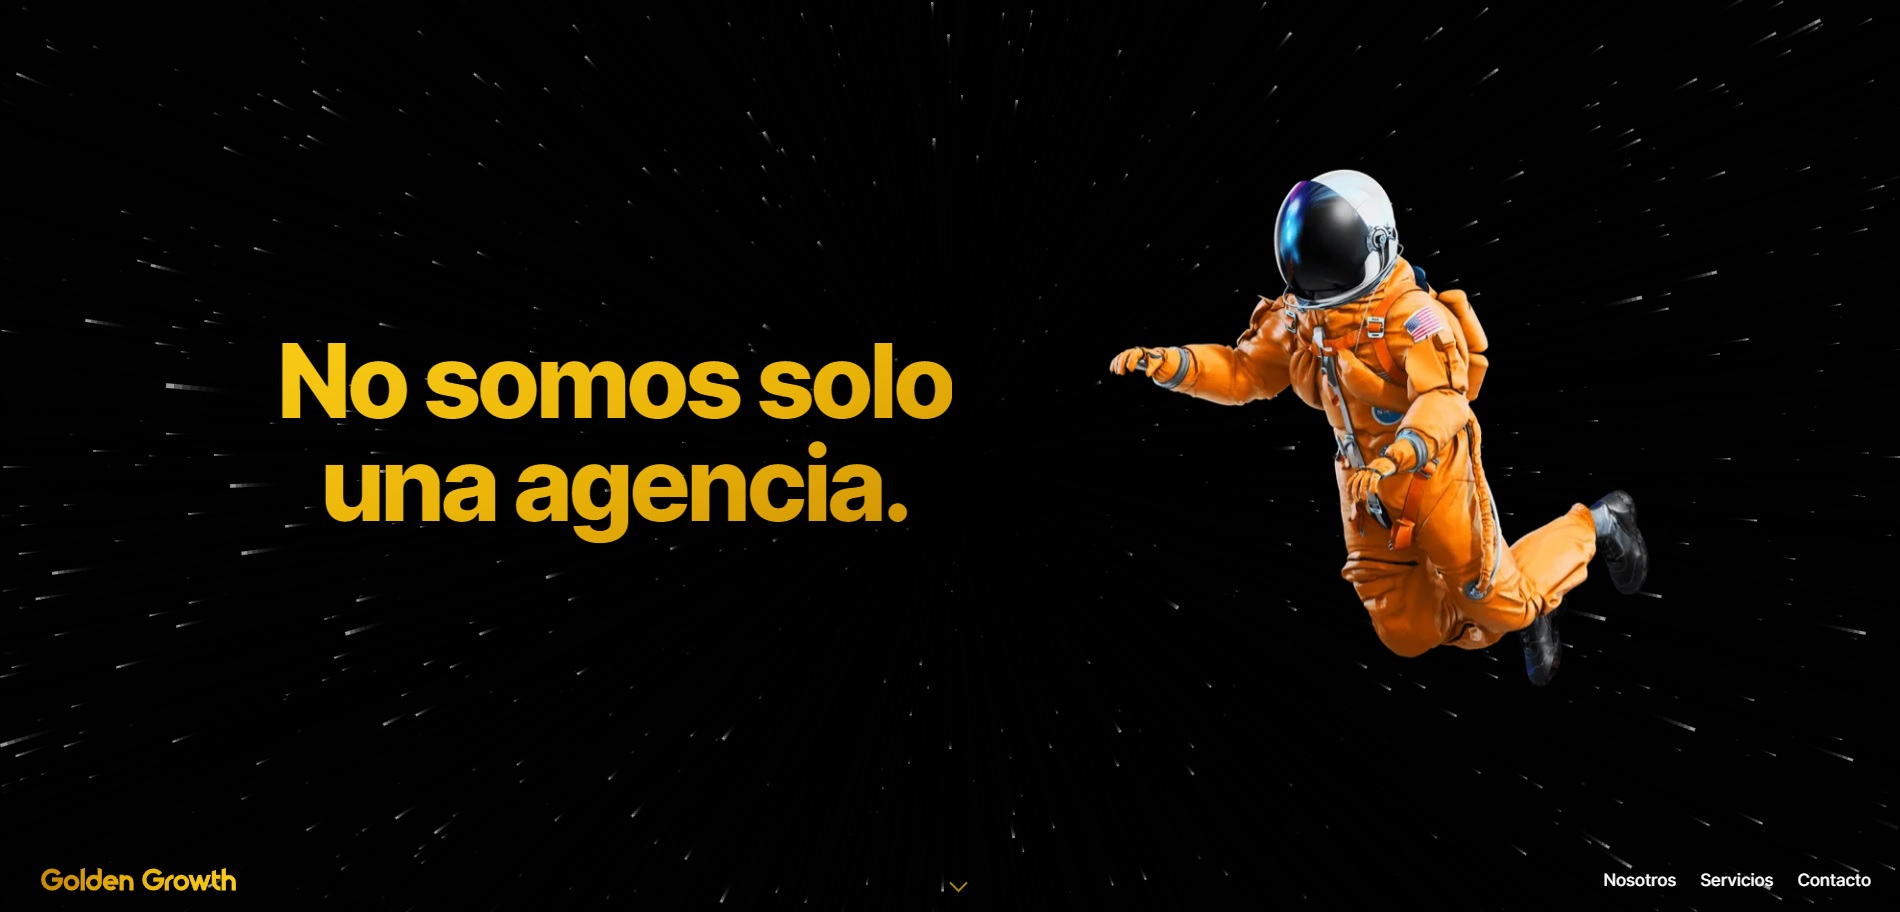
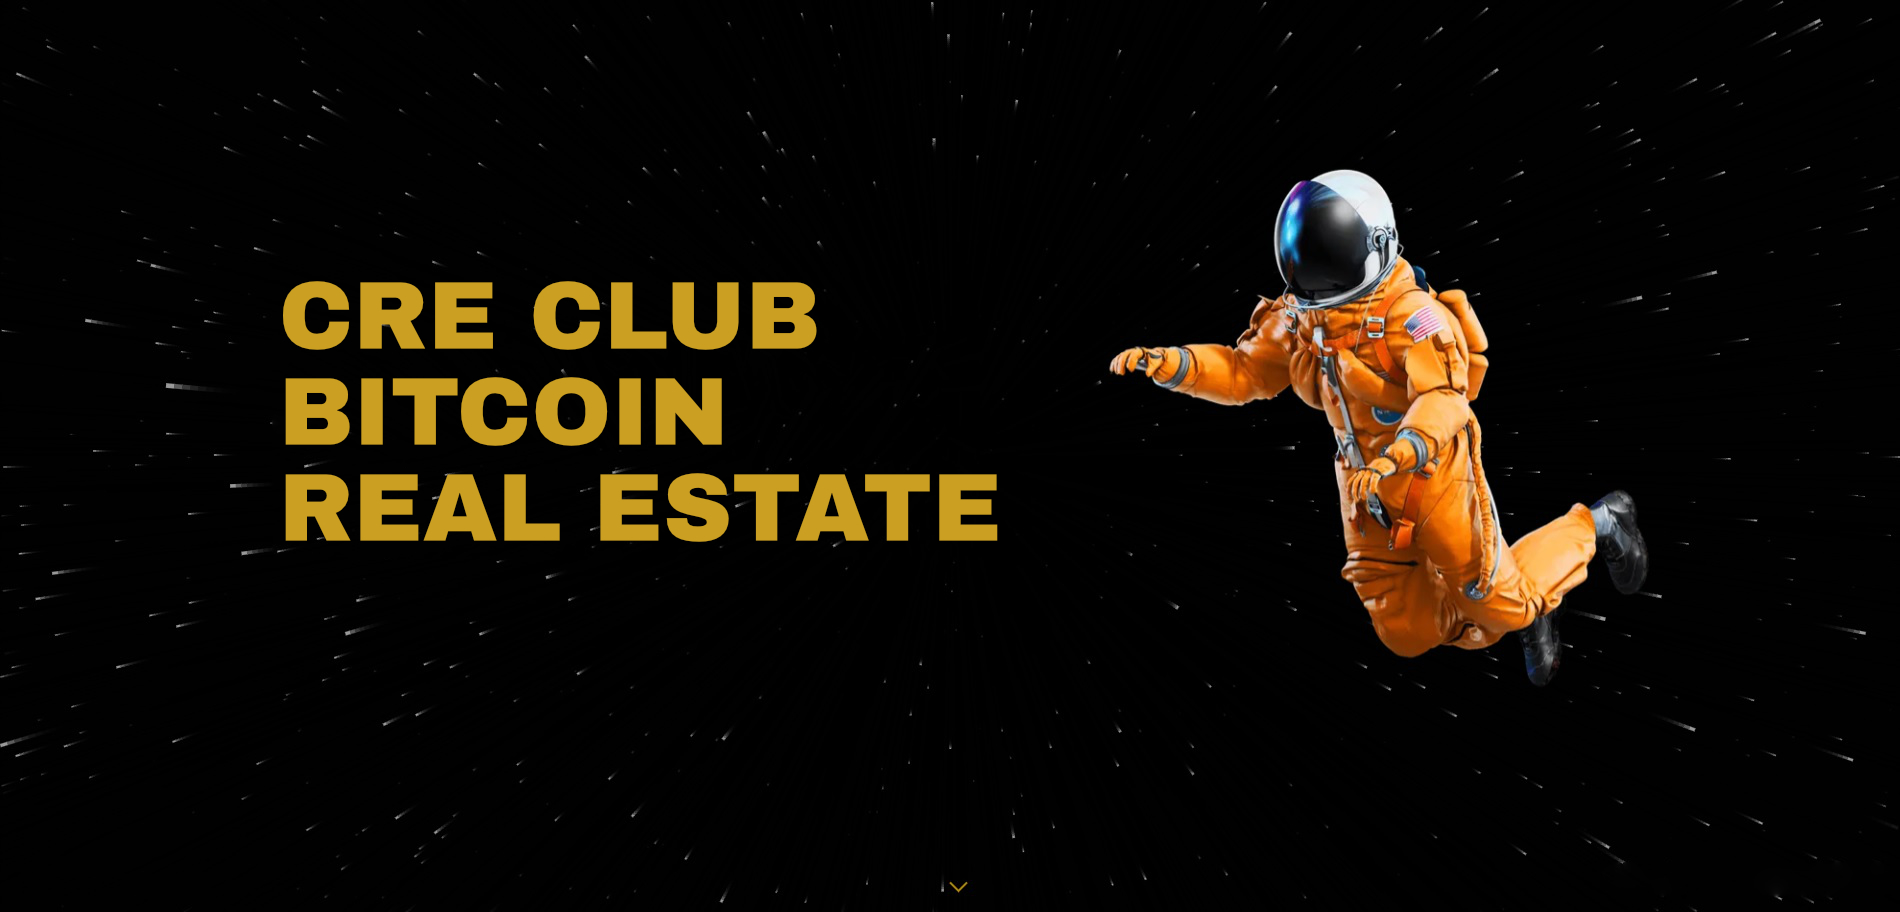
up

Changed region(s): [[0.1242, 0.307, 0.5279, 0.614], [0.8384, 0.9518, 0.9937, 0.9825], [0.0, 0.9518, 0.1242, 0.9825]]

diff --git a/dist/index.html b/dist/index.html
@@ -20,9 +20,8 @@ BITCOIN
     #splash-bg-fallback {
       display: block;
     }
-  </style> </noscript>  <div class="space-y-24 px-8 py-32"> <section id="nosotros" class="animate-fade-in-up mb-48 flex scroll-mt-48 flex-col items-center justify-center space-y-8" data-aos="fade-up" data-aos-delay="300" data-aos-duration="1000" data-aos-mirror="true"> <div class="flex flex-col items-center">  <h2 class="gradient-text min-h-14 text-center font-extrabold tracking-tight text-7xl md:text-6xl lg:h-20"> Arvrtise </h2> </div> <p class="max-w-6xl text-center font-extrabold text-lg md:text-xl 2xl:text-2xl">  <span class="text-primary">Arvrtise</span> is a one stop shop for Web5 marketing with no middleman fees.<span class="text-primary">Arvrtise</span>
-marketing campaigns use digital ads that are airdropped to your verified wallet that allows you to re-sell 
-    the ad to your customers, fans or clients to unlock your services, products or access to your Arvrtise Discord channels.
+  </style> </noscript>  <div class="space-y-24 px-8 py-32"> <section id="nosotros" class="animate-fade-in-up mb-48 flex scroll-mt-48 flex-col items-center justify-center space-y-8" data-aos="fade-up" data-aos-delay="300" data-aos-duration="1000" data-aos-mirror="true"> <div class="flex flex-col items-center">  <h2 class="gradient-text min-h-14 text-center font-extrabold tracking-tight text-7xl md:text-6xl lg:h-20"> CRE CLUB </h2> </div> <p class="max-w-6xl text-center font-extrabold text-lg md:text-xl 2xl:text-2xl">  <span class="text-primary">CRE CLUB</span> is an elite group investors, brokers and service provides tokenizing the world as a Bitcoin to make real estate great again with no middleman fees.
+  <span class="text-primary">CRE CLUB</span> led by The Wizard of Hahz the pioneer of tokenizing CRE who provides members his fractionalized guidance as a CBO (Chief Bitcoin Officer) on to tokenizing RWA (Real World Assets) as Bitcoin members can rent for Bitcoin $RNT. CRE CLUB members are fractionalizing the world in Bitcoin W3W addresses to buy physical real estate that accepts Bitcoin $RNT. Sell Bitcoin $RNT with no real estate.
  </p>   <section class="max-w-[88rem] py-12"> <div class="container mx-auto px-4"> <div class="-mx-4 flex flex-wrap gap-10"> <div class="group relative overflow-hidden rounded-lg px-6 pb-8 pt-10 transition-all duration-300 hover:-translate-y-1 hover:shadow-2xl sm:rounded-lg sm:px-10"> <span class="absolute top-10 z-0 h-20 w-20 rounded-full bg-primary transition-all duration-300 group-hover:scale-[15]"></span> <div class="relative z-10 mx-auto max-w-md"> <span class="grid h-20 w-20 place-items-center rounded-full bg-primary transition-all duration-300 group-hover:bg-primary"> <svg width="1em" height="1em" viewBox="0 0 24 24" class="h-10 w-10 text-white transition-all" data-icon="mdi:shield-account-outline">  <symbol id="ai:mdi:shield-account-outline"><path fill="currentColor" d="M12 1L3 5v6c0 5.55 3.84 10.74 9 12c5.16-1.26 9-6.45 9-12V5zm0 2.18l7 3.12v4.92c0 1.7-.5 3.43-1.35 4.95C16 14.94 13.26 14.5 12 14.5s-4 .44-5.65 1.67C5.5 14.65 5 12.92 5 11.22V6.3zM12 6a3.5 3.5 0 0 0-3.5 3.5A3.5 3.5 0 0 0 12 13a3.5 3.5 0 0 0 3.5-3.5A3.5 3.5 0 0 0 12 6m0 2a1.5 1.5 0 0 1 1.5 1.5A1.5 1.5 0 0 1 12 11a1.5 1.5 0 0 1-1.5-1.5A1.5 1.5 0 0 1 12 8m0 8.5c1.57 0 3.64.61 4.53 1.34C15.29 19.38 13.7 20.55 12 21c-1.7-.45-3.29-1.62-4.53-3.16c.9-.73 2.96-1.34 4.53-1.34"/></symbol><use xlink:href="#ai:mdi:shield-account-outline"></use>  </svg> </span> <h2 class="mt-5 font-bold transition-all duration-300 text-2xl group-hover:text-dark">
 Mission
 </h2> <div class="space-y-6 pt-5 leading-7 transition-all duration-300 text-base group-hover:text-dark"> <p class="text-pretty">
